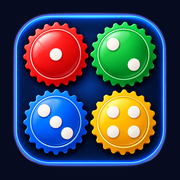
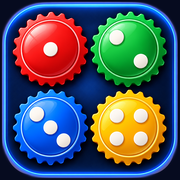
v6.07: icona grande, il riquadro col bordino riempie l'icona
Claude-Session: https://claude.ai/code/session_017xxN8iwZQxndwX3shZ57X5

diff --git a/CLAUDE.md b/CLAUDE.md
@@ -262,7 +262,8 @@
   in un riquadro blu notte col BORDINO BLU LUMINOSO, SENZA il fondo marrone dell'immagine originale (richiesto
   dall'utente; scartate: versione senza bordino a tutto campo, versione col marrone). `icon-v6-192/512.png` (dalla v6.07: prima
   erano TRASPARENTI e molti Android ci mettevano dietro un quadrato BIANCO, segnalato), `icon-v6-180.png` (iPhone) e
-  `icon-v6-512-maskable.png` (Android tondo, riquadro al 78%) tutte su blu quasi nero #060B1F (MAI fondo trasparente). Proposte scartate in passato: logo su
+  `icon-v6-512-maskable.png` (Android tondo, riquadro all'80%). Dalla v6.07 nelle icone normali il riquadro col
+  bordino arriva quasi al bordo (98%, "grande come l'altra", chiesto dall'utente) tutte su blu quasi nero #060B1F (MAI fondo trasparente). Proposte scartate in passato: logo su
   crema, pedine sul tabellone di legno, carta + pedine, pedine su crema. Non riproporle.
 - Animazioni dei menu portate nel GIOCO (v5.65, scelti i gruppi 1 e 2 dai video di prova):
   1) Elemento che vola: ⚙ Impostazioni, ≡ Registro, 💬 chat (anteprima o pulsante) e "📜 Regolamento" si
